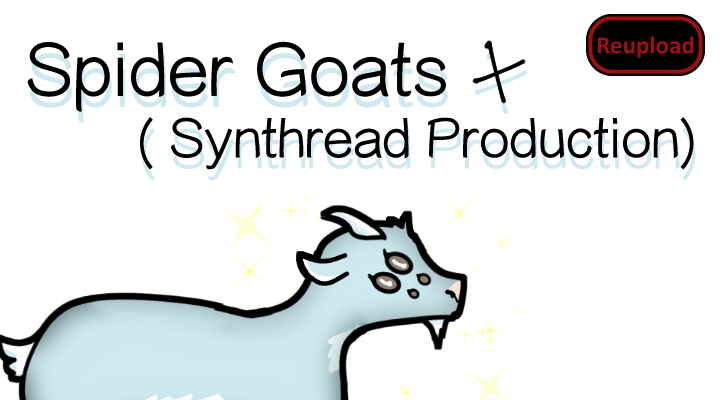
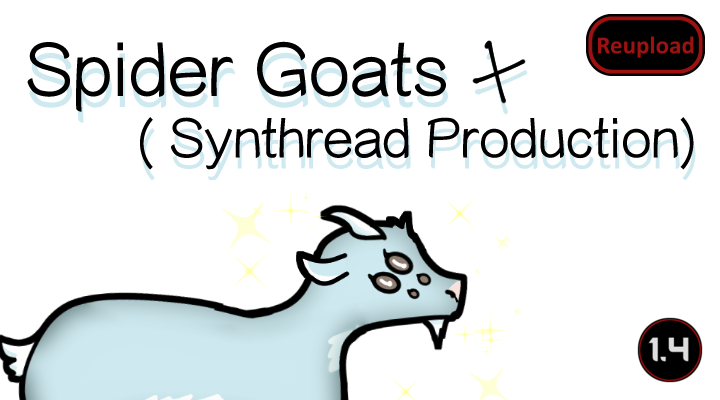
Added AnimalFarm-tradeTag

Changed region(s): [[0.8861, 0.78, 0.9778, 0.96]]

diff --git a/README.md b/README.md
@@ -30,4 +30,5 @@ Thanks to spdskatr for helping me with the XML fields! Go check out their mods: 
 
 
 
+https://steamcommunity.com/sharedfiles/filedetails/changelog/2442008780]![Image](https://img.shields.io/github/v/release/emipa606/SpiderGoat?label=latest%20version&style=plastic&color=9f1111&labelColor=black)
 
